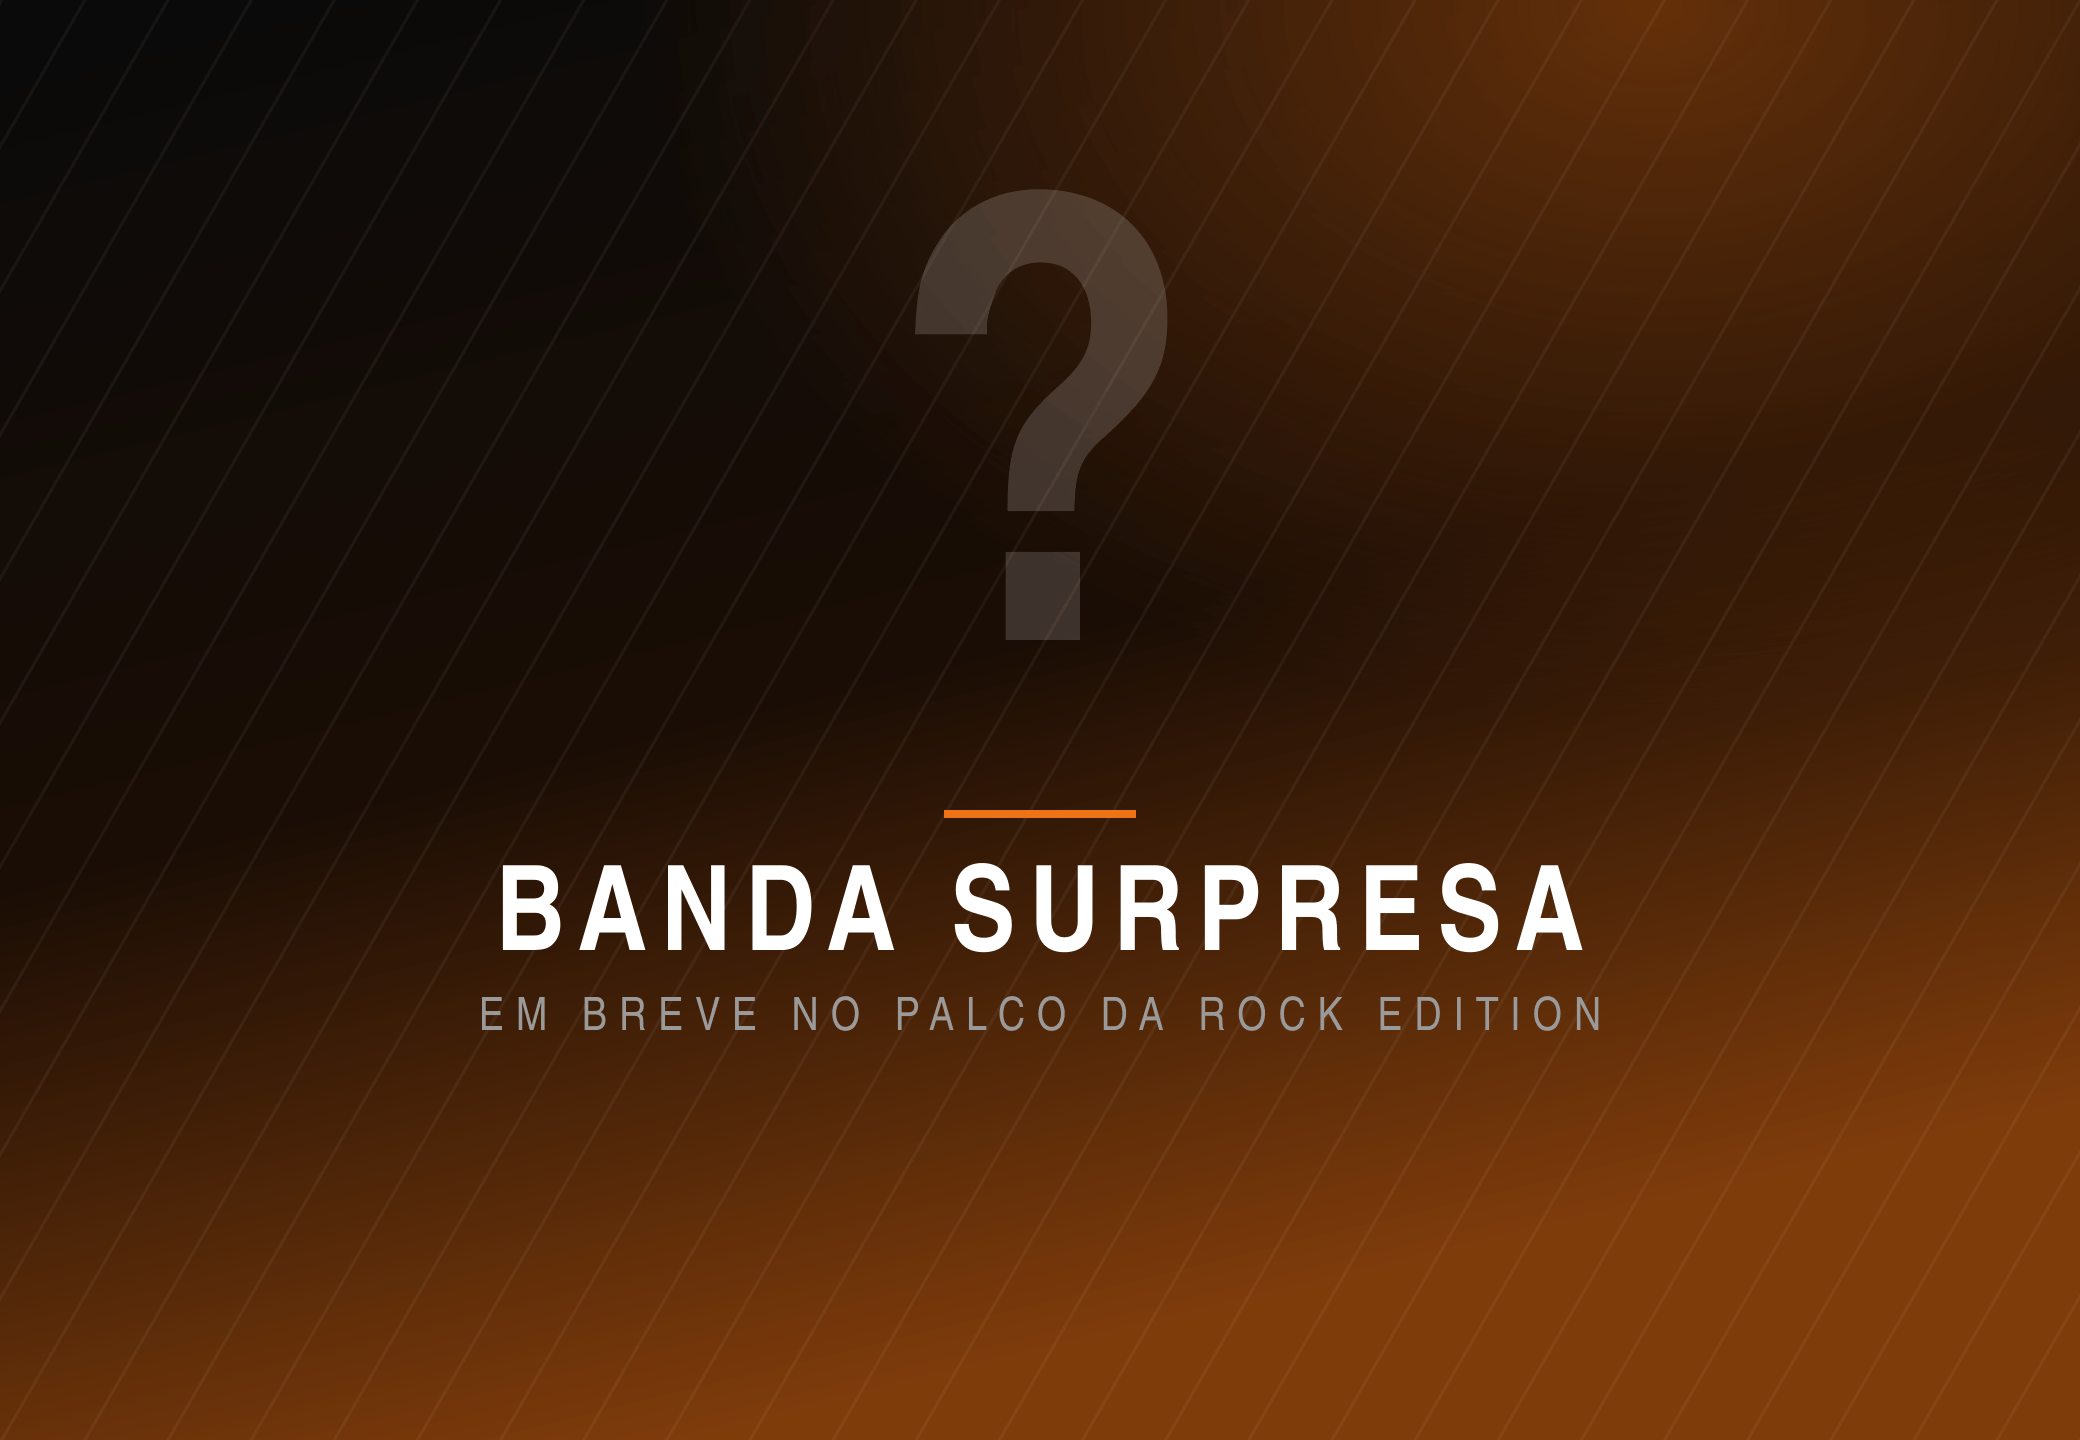
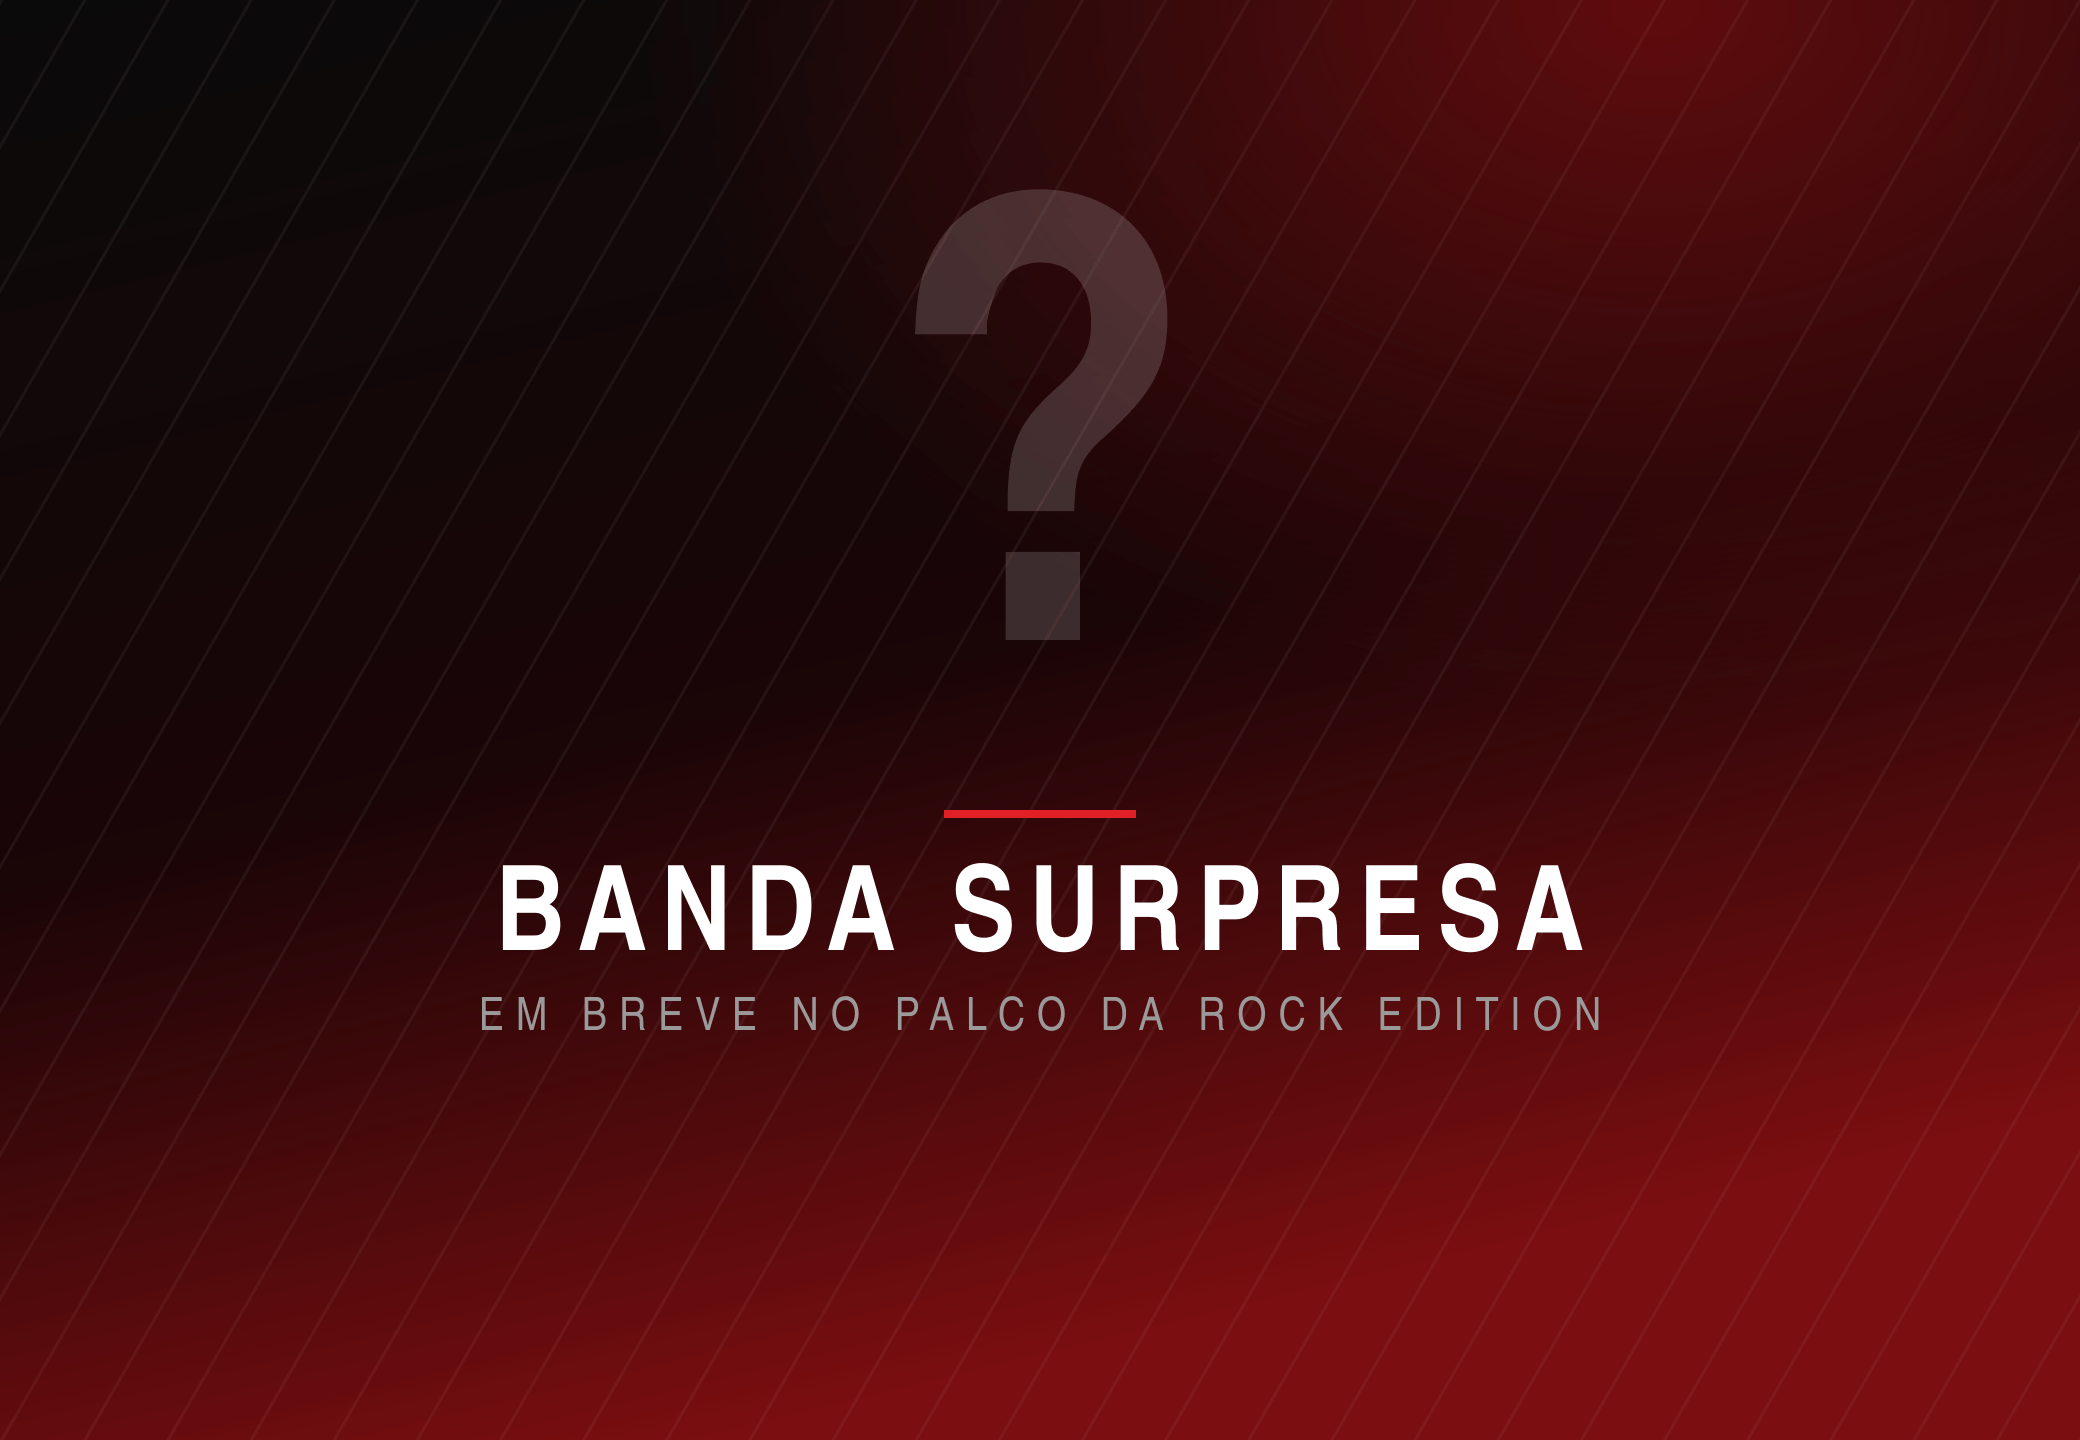
Revert "style: troca provisória do acento vermelho por laranja (#ec7316)"
Reverte a18fccd: o acento volta ao vermelho original.

A arte do bloco do show entra junto porque o laranja vazou para fora do
commit revertido — o placeholder foi gerado já com a cor provisória, um
commit antes. Só o revert deixaria a faixa laranja sozinha no meio da
página vermelha.

Claude-Session: https://claude.ai/code/session_01WLBzBavpx2if8p1UaUz3fL

diff --git a/app/globals.css b/app/globals.css
@@ -5,21 +5,15 @@
  *
  * Regra de uso da paleta:
  *   - preto (bg-dark) é a base editorial/rock e domina a página;
- *   - o acento (accent-red) aparece SÓ em CTAs, números de destaque e
+ *   - vermelho (accent-red) aparece SÓ em CTAs, números de destaque e
  *     tarjas/badges — nunca como cor de texto corrido. Use <Highlight> e
  *     <Badge> para aplicá-lo pontualmente.
- *
- * PROVISÓRIO: o acento está em laranja (#ec7316) no lugar do vermelho
- * original (#e11f27 / #7a0e10). Os nomes dos tokens seguem `accent-red` para
- * não espalhar a troca por toda a base — voltar é editar só os dois valores
- * abaixo, mais os hex citados em components/ui/Timeline.tsx,
- * components/sections/DistancesSection.tsx e as artes em public/images.
  * ------------------------------------------------------------------------- */
 @theme {
   --color-bg-dark: #0a0a0a;
   --color-bg-light: #f2f2f2;
-  --color-accent-red: #ec7316;
-  --color-accent-red-dark: #7f3c0b;
+  --color-accent-red: #e11f27;
+  --color-accent-red-dark: #7a0e10;
   --color-text-white: #ffffff;
   --color-text-gray: #9a9a9a;
   --color-text-dark: #0f0f0f;

diff --git a/components/sections/DistancesSection.tsx b/components/sections/DistancesSection.tsx
@@ -41,7 +41,7 @@ export function DistancesSection() {
               data-distance-card
               className={cn(
                 "flex flex-col bg-bg-dark p-8 lg:p-10",
-                item.featured && "bg-[#120a04]",
+                item.featured && "bg-[#120406]",
               )}
             >
               <div className="flex items-start justify-between gap-4">

diff --git a/components/ui/Timeline.tsx b/components/ui/Timeline.tsx
@@ -57,7 +57,7 @@ export function Timeline({
           onEnter: () =>
             g.to(marker, {
               scale: 1,
-              backgroundColor: "#EC7316",
+              backgroundColor: "#E11F27",
               duration: 0.4,
               ease: "back.out(2)",
             }),
